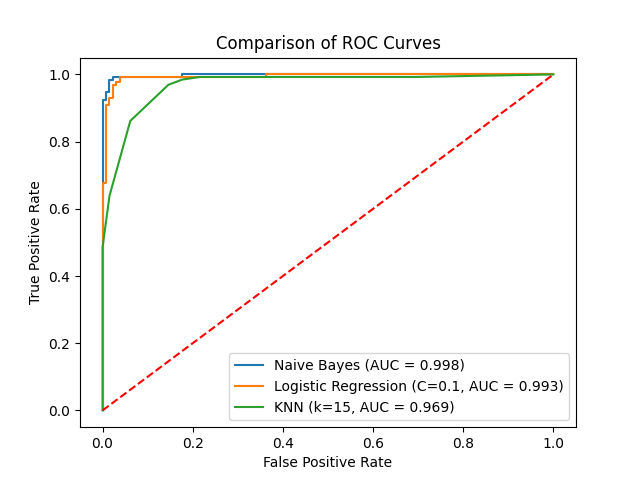
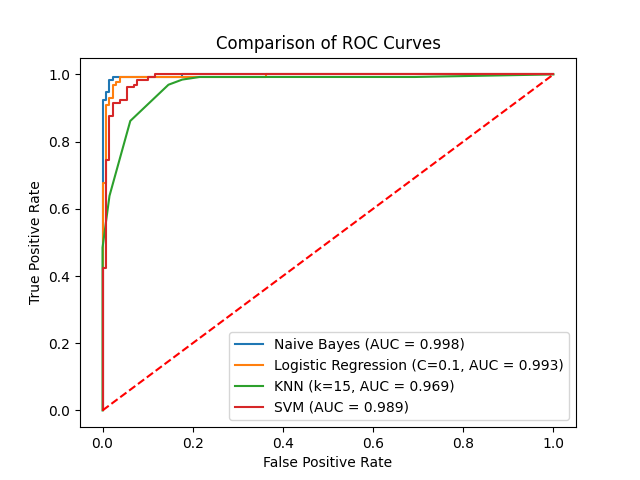
[add] Added new model (SVM) for the evaluation

diff --git a/spam_detection/assignment/models/svm_classifier.py b/spam_detection/assignment/models/svm_classifier.py
@@ -1,0 +1,58 @@
+""""
+This model implements the Support Vector Machine (SVM) classifier for spam detection.
+It uses the `SVC` class from `sklearn` to train the model and predict the labels for the test set.
+It also calculates the accuracy, precision, recall, and F1 score for each C value and plots the ROC curve for each C value.
+"""
+from sklearn.svm import SVC
+from sklearn.metrics import roc_curve, classification_report, roc_auc_score
+
+from utils.vectorizator import vectorization
+from utils.data_analysis import prepare_data, save_plot, compute_plot_roc_curve, aggregate_classification_reports, \
+    display_classification_reports
+
+# Initialize parameters used for the experiment
+performance_metrics = []
+reports = {}
+
+def run_svm(X_train, y_train, X_test, y_test):
+
+    print("Running Support Vector Machine with linear kernel")
+
+    # Initialize and train the SVM model
+    svm_clf = SVC(kernel='linear', probability=True)
+    svm_clf.fit(X_train, y_train)
+
+    # Predict probabilities for ROC AUC
+    y_test_prob = svm_clf.predict_proba(X_test)[:, 1]
+
+    # Predict the labels for the test set
+    y_test_pred = svm_clf.predict(X_test)
+
+    # Calculate metrics
+    report = classification_report(y_test, y_test_pred, output_dict=True)
+
+    # Generate and plot the ROC curve using probabilities
+    fpr, tpr, _ = roc_curve(y_test, y_test_prob)
+    roc_auc = roc_auc_score(y_test, y_test_prob)
+
+    compute_plot_roc_curve(fpr, tpr, f'SVM (AUC = {roc_auc:.3f})')
+
+    reports['Linear'] = report
+
+    save_path = 'resources/svm_roc_curve.png'
+    save_plot(save_path)
+
+    # Print the performance metrics
+    result_df = aggregate_classification_reports(reports)
+    display_classification_reports(result_df)
+
+    return report['1']['recall'], fpr, tpr, roc_auc
+
+if __name__ == '__main__':
+    # Load the training and testing datasets
+    df_train = vectorization('../../dataset/train-mails', 2000)
+    df_test = vectorization('../../dataset/test-mails', 2000)
+
+    # Prepare the data for training and testing
+    X_train, y_train, X_test, y_test = prepare_data(df_train, df_test)
+    run_svm(X_train, y_train, X_test, y_test)

diff --git a/spam_detection/assignment/evaluator.py b/spam_detection/assignment/evaluator.py
@@ -5,6 +5,7 @@ from models.knn_classifier import run_knn
 from models.logistic_regression_classifier import train_best_model as run_logistic_regression
 from models.logistic_regression_classifier import run_lr_comparison
 from models.naive_bayes_classifier import train_best_model as run_naive_bayes
+from models.svm_classifier import run_svm
 from utils.vectorizator import vectorization
 from utils.data_analysis import prepare_data, save_plot
 
@@ -52,12 +53,23 @@ rows.append({
     'Best Parameter': best_k
 })
 
+# Run support vector machine
+svm_recall, svm_fpr, svm_tpr, svm_roc_auc = run_svm(X_train, y_train, X_test, y_test)
+
+rows.append({
+    'Model': 'SVM',
+    'Recall': svm_recall,
+    'AUC': svm_roc_auc,
+    'Best Parameter': 'Linear'
+})
+
 # Plot the ROC curves
 plt.figure()
 
 plt.plot(nb_fpr, nb_tpr, label=f"Naive Bayes (AUC = {nb_roc_auc:.3f})")
 plt.plot(lr_fpr, lr_tpr, label=f"Logistic Regression (C={best_c}, AUC = {lr_roc_auc:.3f})")
 plt.plot(knn_fpr, knn_tpr, label=f"KNN (k={best_k}, AUC = {knn_roc_auc:.3f})")
+plt.plot(svm_fpr, svm_tpr, label=f"SVM (AUC = {svm_roc_auc:.3f})")
 
 plt.plot([0, 1], [0, 1], 'r--')
 plt.xlabel('False Positive Rate')
